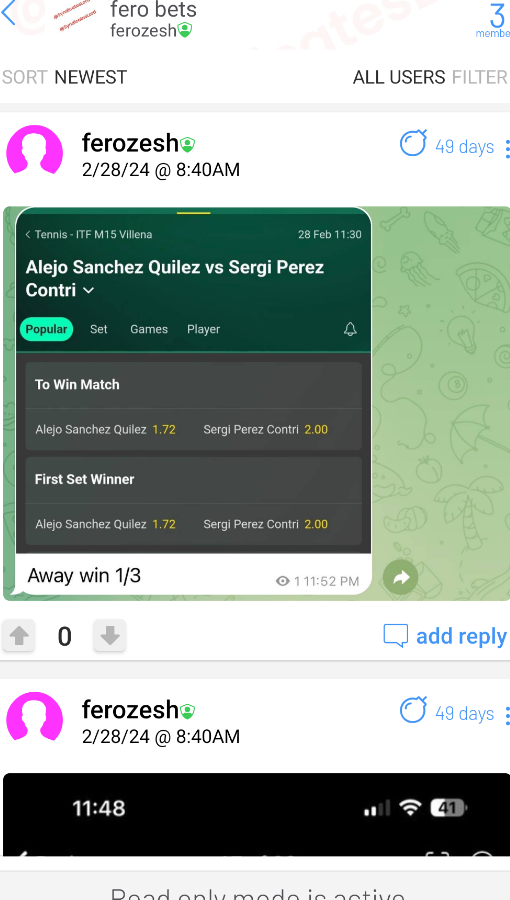
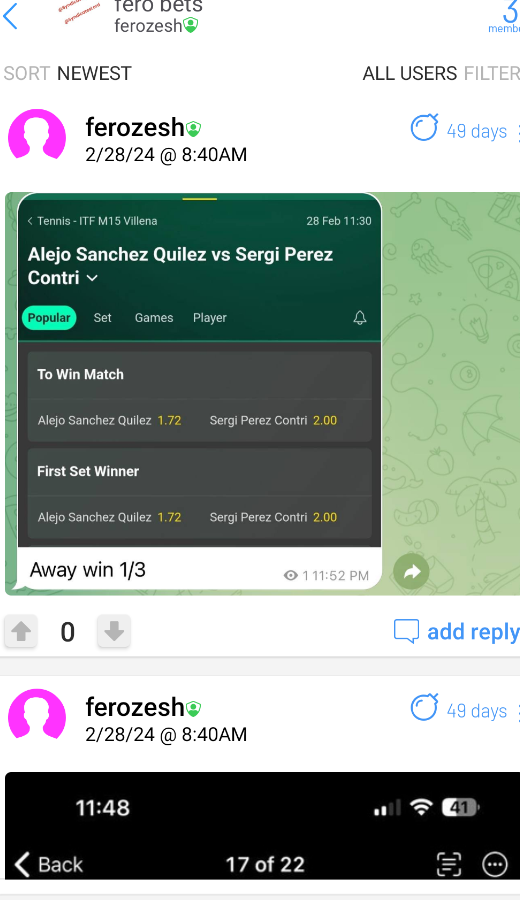
update project

diff --git a/main_re.py b/main_re.py
@@ -15,7 +15,7 @@ bot = telebot.TeleBot(TOKEN)
 # Function to capture screenshot
 def capture_screenshot():
     # Use appropriate method to capture screenshot in Android
-    screenshot = pyautogui.screenshot(region=(610, 100, 510, 900))  # Assuming you are running this script on a Windows machine
+    screenshot = pyautogui.screenshot(region=(620, 100, 540, 900))  # Assuming you are running this script on a Windows machine
     return screenshot
 
 # Function to send screenshot to Telegram channel

diff --git a/main.py b/main.py
@@ -15,7 +15,7 @@ bot = telebot.TeleBot(TOKEN)
 # Function to capture screenshot
 def capture_screenshot():
     # Use appropriate method to capture screenshot in Android
-    screenshot = pyautogui.screenshot(region=(25, 100, 510, 900))  # Assuming you are running this script on a Windows machine
+    screenshot = pyautogui.screenshot(region=(25, 100, 520, 900))  # Assuming you are running this script on a Windows machine
     return screenshot
 
 # Function to send screenshot to Telegram channel
